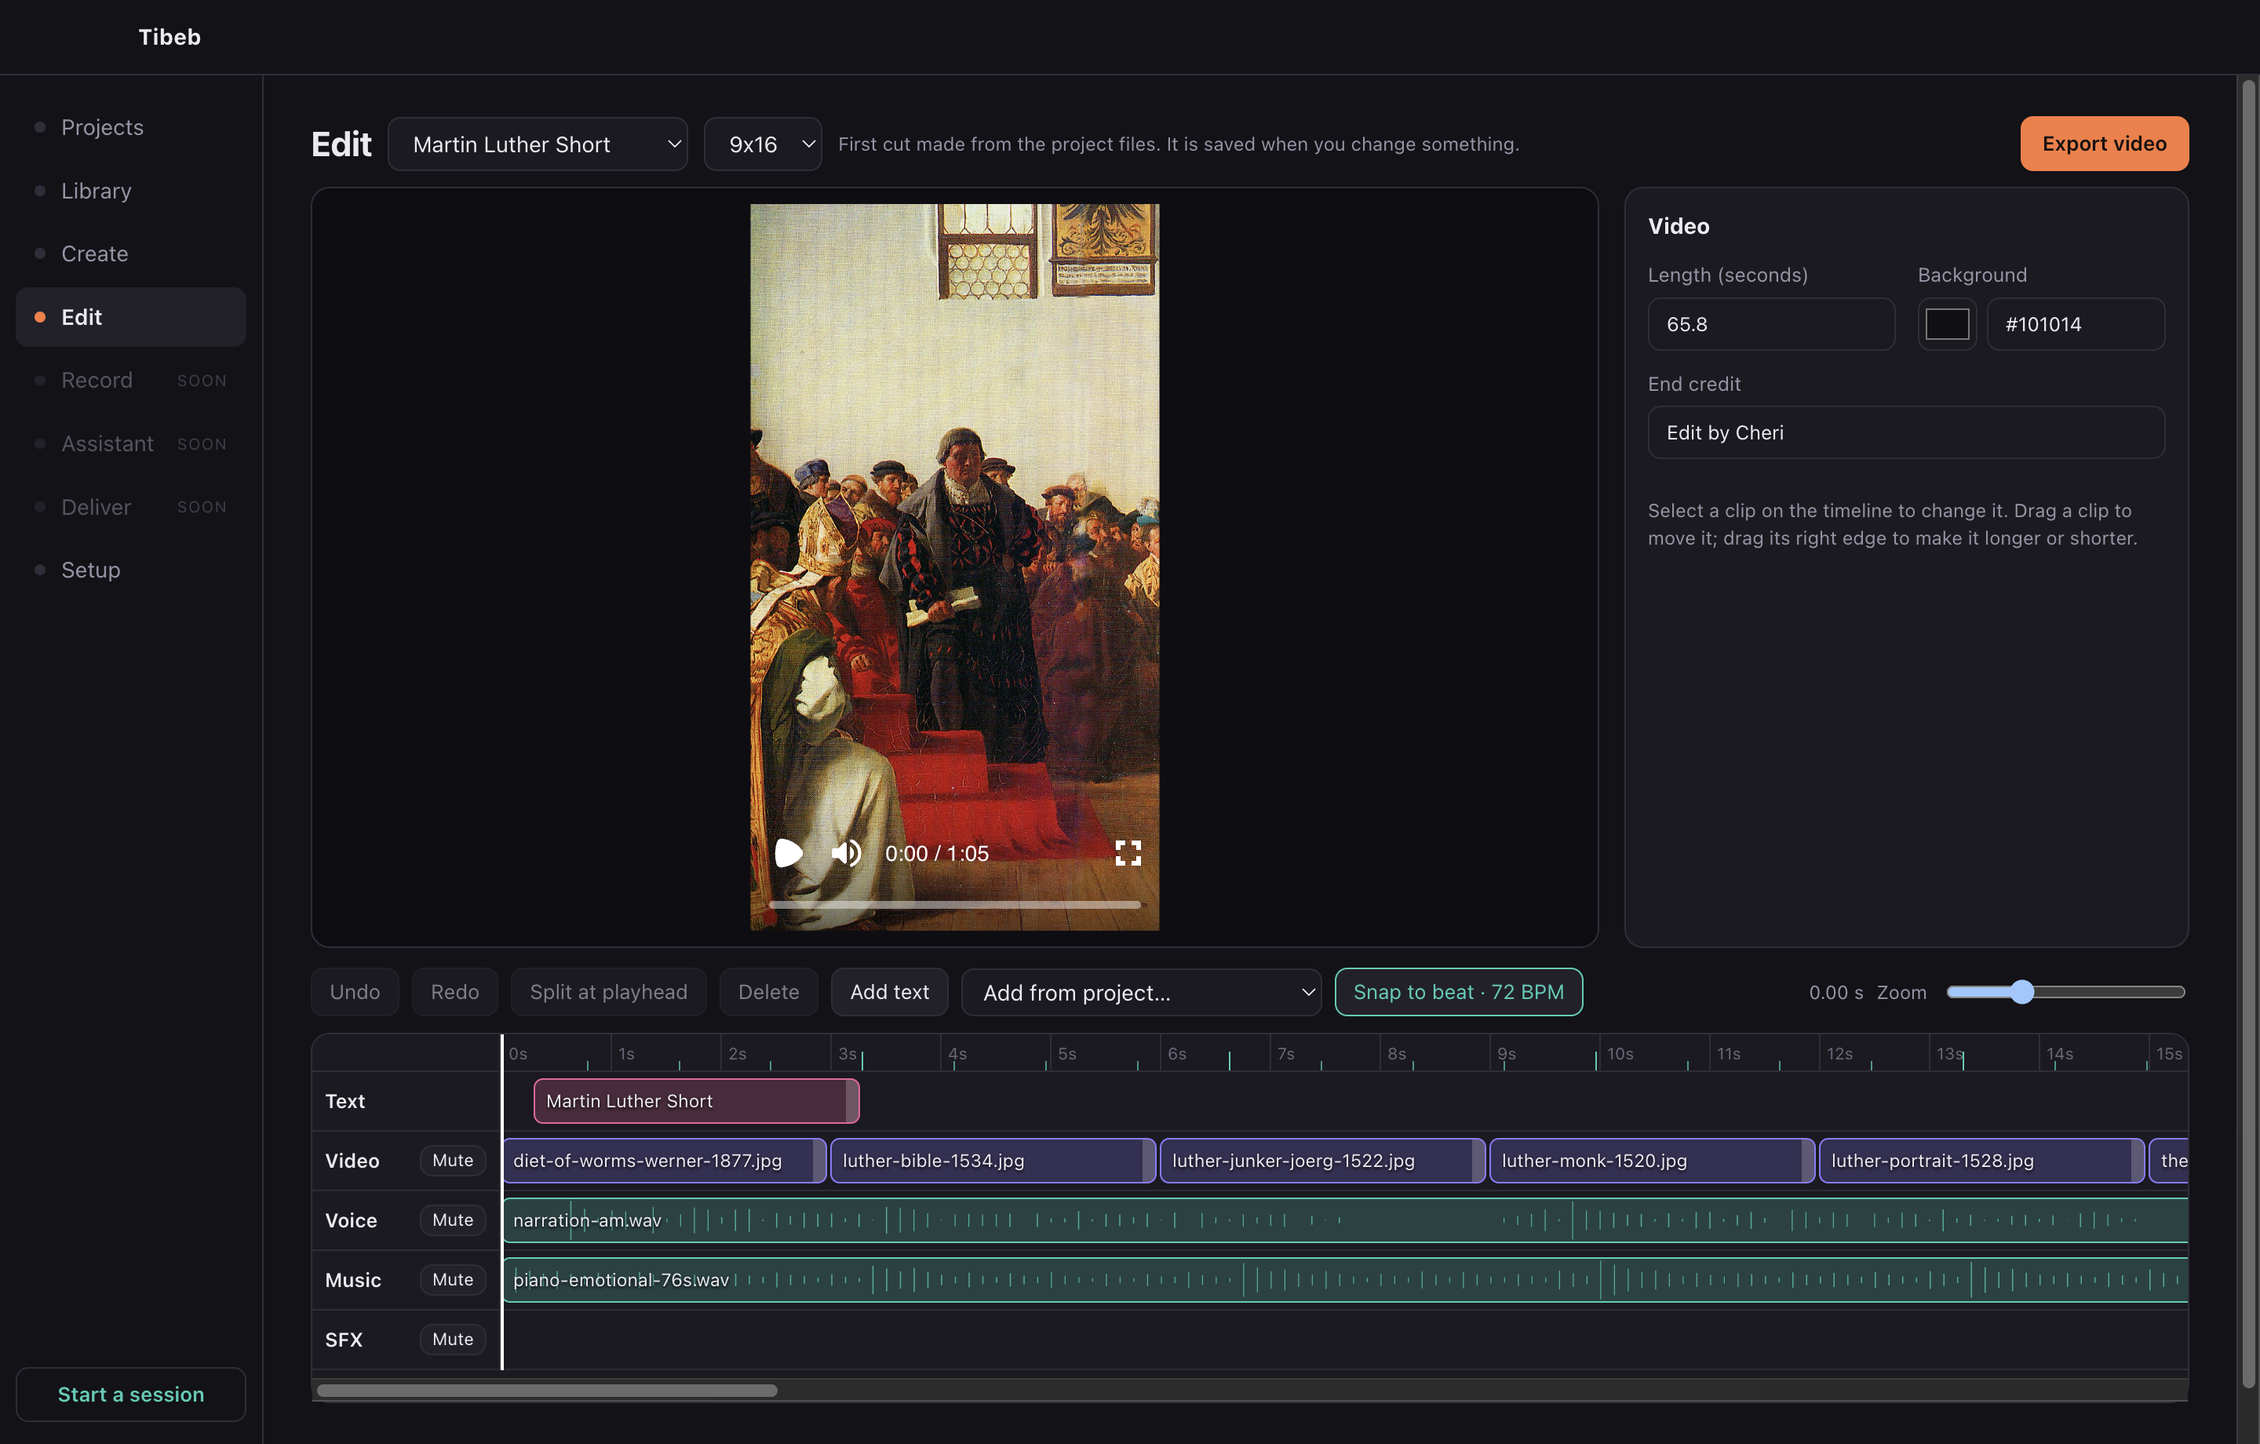
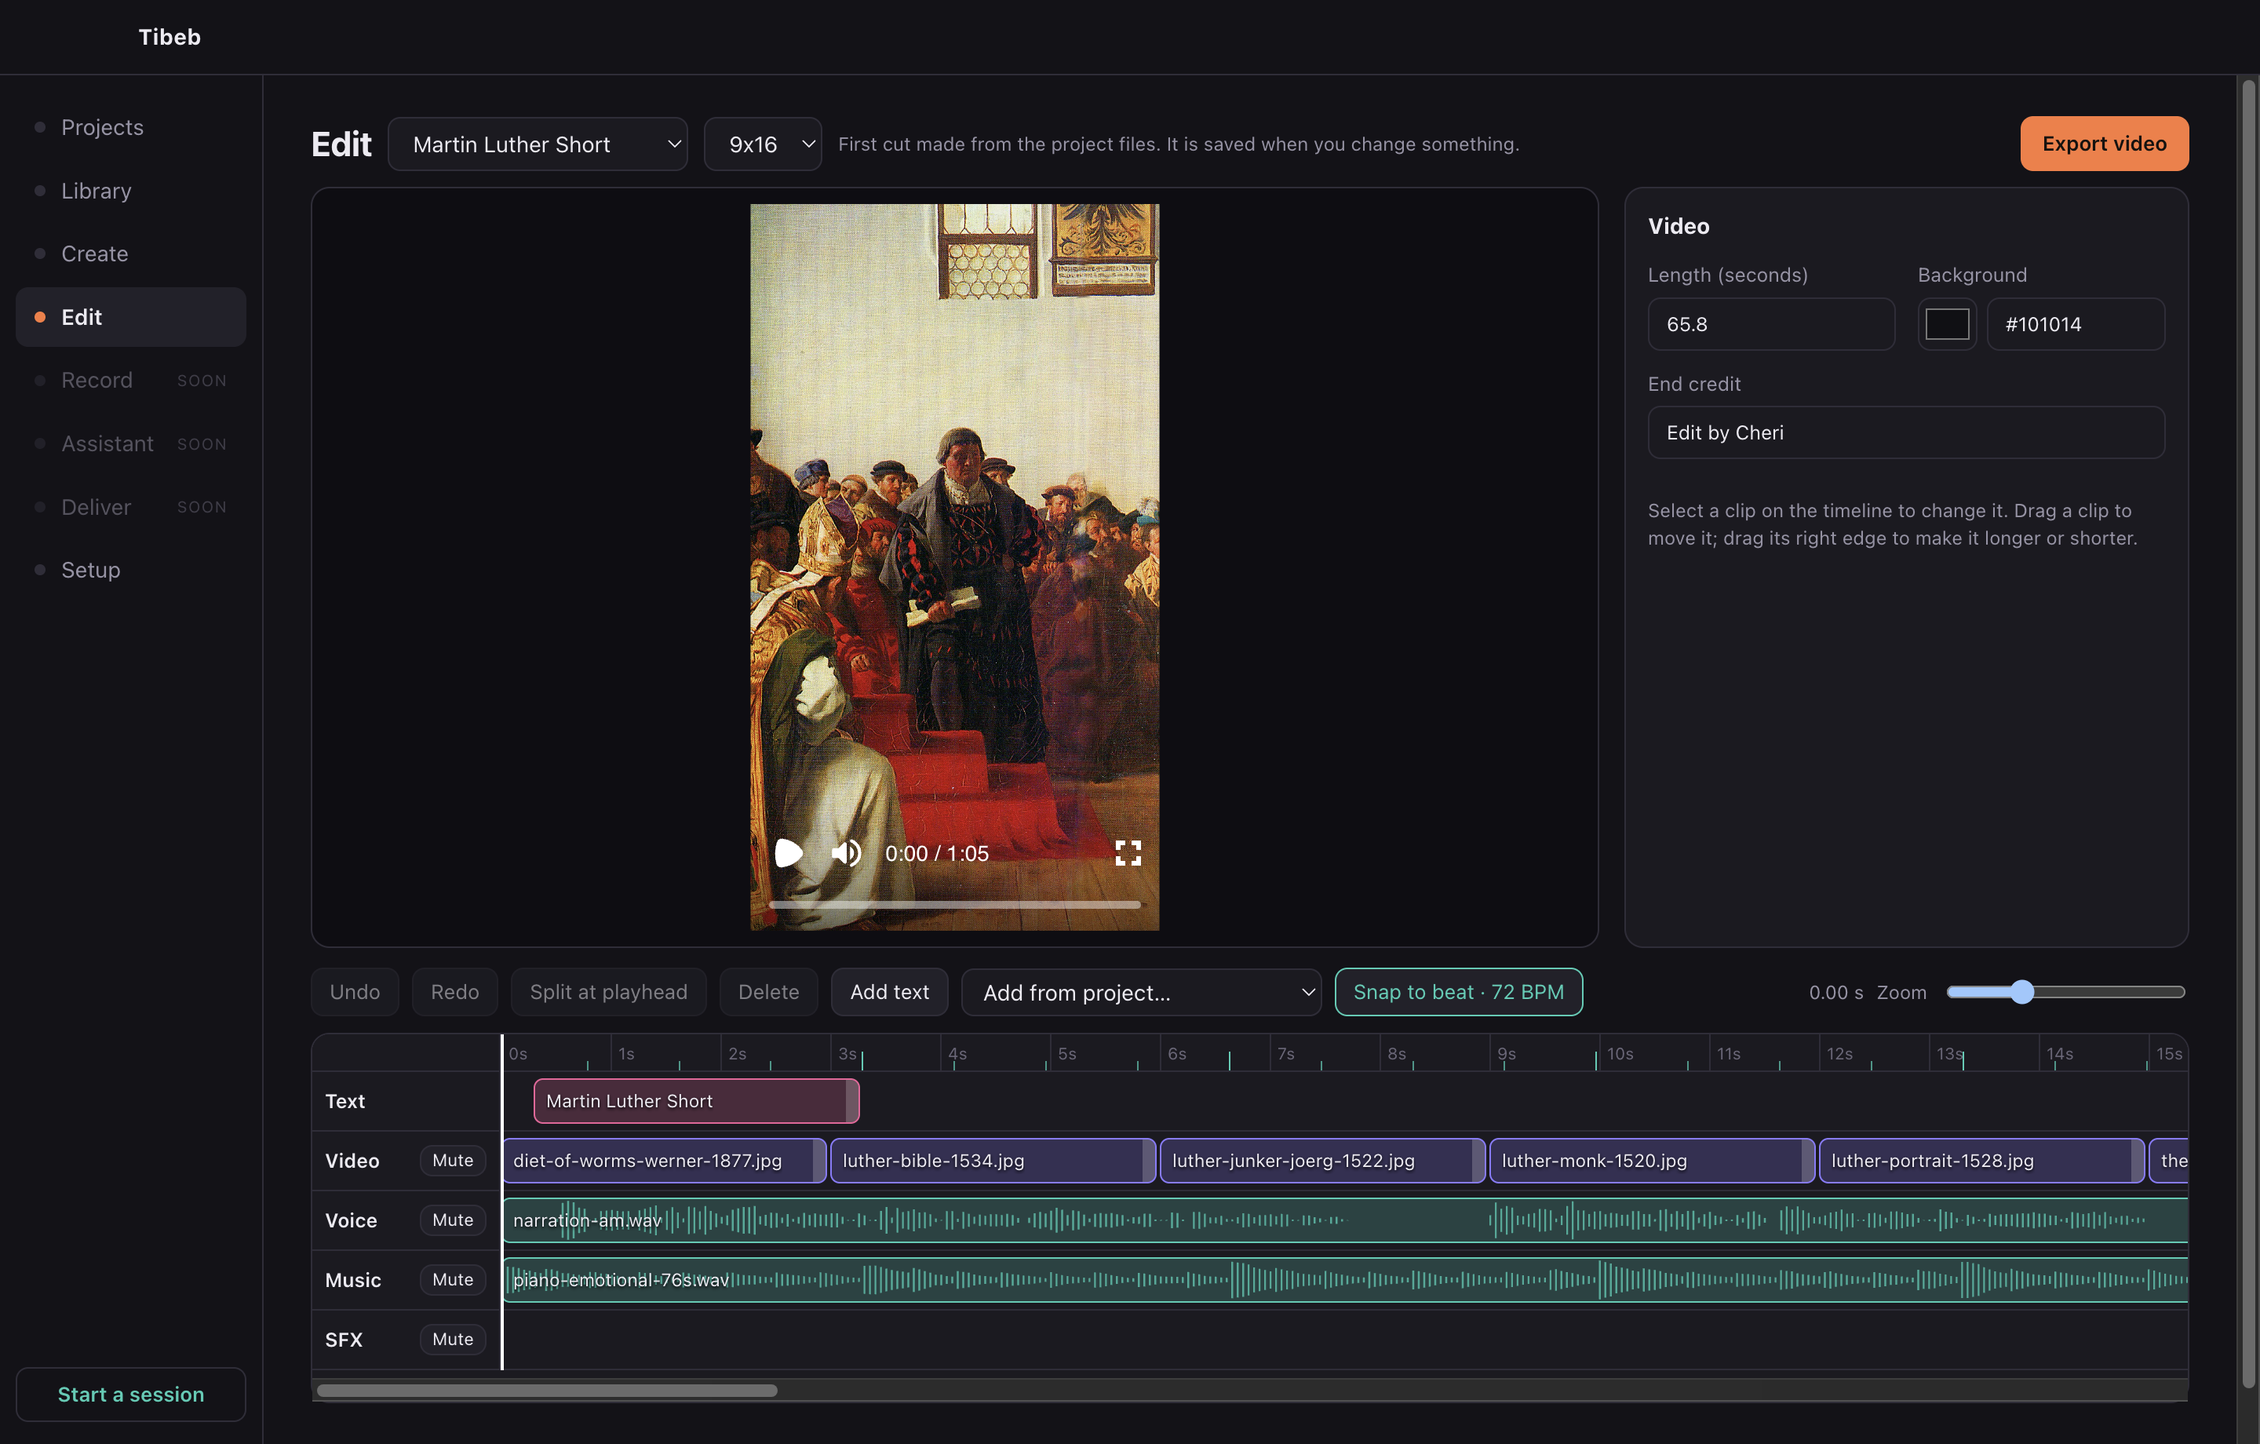
feat: colour in the editor (looks, adjustments, auto balance, copy to track) and denser waveforms

Changed region(s): [[0.5312, 0.8364, 0.9688, 0.8984], [0.25, 0.8364, 0.5, 0.8984], [0.2188, 0.8674, 0.25, 0.8984]]

diff --git a/src/renderer/screens/Edit.tsx b/src/renderer/screens/Edit.tsx
@@ -15,7 +15,7 @@ const clean = (e: unknown) => (e as Error).message.replace(/^Error invoking remo
 /** Inspector forms come from the same schemas the renderer validates with. */
 const formSchema = (kind: string): JsonSchema => {
 	const s = z.toJSONSchema(kind === 'text' ? textClipSchema : kind === 'audio' ? audioClipSchema : mediaClipSchema, {unrepresentable: 'any'}) as JsonSchema;
-	const {id: _id, kind: _kind, ...properties} = s.properties ?? {};
+	const {id: _id, kind: _kind, balance: _balance, ...properties} = s.properties ?? {};
 	return {...s, properties, required: (s.required ?? []).filter((k) => k !== 'id' && k !== 'kind')};
 };
 // Waveforms and beats are measured once per file by the engine and remembered for the session.
@@ -27,7 +27,7 @@ const loadPeaks = (project: string, src: string, beats: boolean) => {
 };
 
 /** The part of a file's waveform that a clip plays (from `in` for `length` seconds), stretched to the clip. */
-const Wave = ({project, clip, color}: {project: string; clip: EditClip; color: string}) => {
+const Wave = ({project, clip, color, px}: {project: string; clip: EditClip; color: string; px: number}) => {
 	const [p, setP] = useState<Peaks | null>(null);
 	const src = String(clip.src ?? '');
 	useEffect(() => {
@@ -38,7 +38,7 @@ const Wave = ({project, clip, color}: {project: string; clip: EditClip; color: s
 	if (!p || !p.peaks.length) return null;
 	const a = Math.floor(Number(clip.in ?? 0) * p.per_second), b = Math.ceil((Number(clip.in ?? 0) + clip.length) * p.per_second);
 	const part = p.peaks.slice(a, Math.max(a + 1, b));
-	const step = Math.max(1, Math.ceil(part.length / 600));
+	const step = Math.max(1, Math.ceil(part.length / Math.max(60, Math.min(4000, px / 2.5))));
 	const pts = Array.from({length: Math.ceil(part.length / step)}, (_, i) => Math.max(...part.slice(i * step, (i + 1) * step)));
 	const n = Math.max(1, Math.round((clip.length * p.per_second) / step));
 	const d = pts.map((v, i) => `M${i} ${(0.5 - v * 0.46).toFixed(3)}V${(0.5 + v * 0.46).toFixed(3)}`).join('');
@@ -213,10 +213,30 @@ const Edit = ({initial}: {initial: string}) => {
 	const startDrag = (e: React.PointerEvent, track: string, c: EditClip, mode: 'move' | 'trim') => {
 		if (!doc) return;
 		e.stopPropagation();
-		(e.currentTarget as HTMLElement).setPointerCapture(e.pointerId);
+		try {
+			(e.currentTarget as HTMLElement).setPointerCapture(e.pointerId);
+		} catch {
+			// synthetic pointers (tests) cannot be captured
+		}
 		setSel({track, clip: c.id});
 		drag.current = {track, clip: c.id, mode, x0: e.clientX, start0: c.start, length0: c.length, before: doc};
 	};
+	const GRADE = ['look', 'lookStrength', 'exposure', 'contrast', 'saturation', 'temperature', 'tint', 'balance'];
+	const [gradeNote, setGradeNote] = useState('');
+	const autoBalance = async () => {
+		if (!sel || !selected || typeof selected.src !== 'string') return;
+		setGradeNote('Measuring…');
+		try {
+			const r = await window.tibeb.balance(project, selected.src, Number(selected.in ?? 0) + Math.min(0.5, selected.length / 2));
+			change((d) => mapClip(d, sel, (c) => ({...c, balance: r.balance})));
+			setGradeNote(r.notes[0] ?? 'Balanced');
+		} catch (e) {
+			setGradeNote(clean(e));
+		}
+	};
+	const resetColour = () => sel && change((d) => mapClip(d, sel, (c) => Object.fromEntries(Object.entries(c).filter(([k]) => !GRADE.includes(k))) as EditClip));
+	const colourToTrack = () => sel && selected && change((d) => ({...d, tracks: d.tracks.map((t) => (t.id !== sel.track ? t : {...t, clips: t.clips.map((c) => (c.kind === 'audio' || c.kind === 'text' ? c
+		: {...(Object.fromEntries(Object.entries(c).filter(([k]) => !GRADE.includes(k))) as EditClip), ...Object.fromEntries(GRADE.filter((k) => k !== 'balance' && selected[k] !== undefined).map((k) => [k, selected[k]]))}))}))}));
 	const seek = (t: number) => player.current?.seekTo(Math.max(0, Math.round(t * FPS)));
 
 	const exportNow = async () => {
@@ -270,8 +290,16 @@ const Edit = ({initial}: {initial: string}) => {
 						<>
 							<div className="row between"><strong>{label(selected)}</strong><span className="dim small">{selected.kind}</span></div>
 							{typeof selected.src === 'string' && /\.(png|jpe?g|webp)$/i.test(selected.src) ? <img className="ithumb" alt="" src={media(`projects/${project}/${selected.src.replace(`projects/${slug}/`, '')}`)} /> : null}
+							{selected.kind === 'video' || selected.kind === 'image' ? (
+								<div className="gradebar">
+									<button className="small" onClick={() => void autoBalance()}>{Array.isArray(selected.balance) ? 'Balance again' : 'Auto balance'}</button>
+									<button className="small" onClick={colourToTrack} title="Copy this clip's look and adjustments to every clip on the track">Colour → whole track</button>
+									<button className="small" onClick={resetColour}>Reset colour</button>
+									{gradeNote ? <span className="dim small">{gradeNote}</span> : null}
+								</div>
+							) : null}
 							<SchemaForm key={`${sel?.track}-${sel?.clip}`} schema={formSchema(selected.kind)} value={selected} label="Clip" files={files.map((f) => `projects/${slug}/${f.file}`)}
-								onChange={(v) => sel && change((d) => mapClip(d, sel, (c) => ({...(v as EditClip), id: c.id, kind: c.kind})))} />
+								onChange={(v) => sel && change((d) => mapClip(d, sel, (c) => ({...(v as EditClip), id: c.id, kind: c.kind, ...(c.balance ? {balance: c.balance} : {})})))} />
 						</>
 					) : (
 						<>
@@ -316,7 +344,7 @@ const Edit = ({initial}: {initial: string}) => {
 									<div key={c.id} className={`clip${sel?.clip === c.id && sel.track === t.id ? ' on' : ''}`} title={label(c)}
 										style={{left: c.start * pps, width: Math.max(8, c.length * pps - 2), background: `${COLORS[t.kind]}3a`, borderColor: COLORS[t.kind]}}
 										onPointerDown={(e) => startDrag(e, t.id, c, 'move')}>
-										{t.kind === 'audio' || c.kind === 'video' ? <Wave project={project} clip={c} color={COLORS[t.kind]} /> : null}
+										{t.kind === 'audio' || c.kind === 'video' ? <Wave project={project} clip={c} color={COLORS[t.kind]} px={c.length * pps} /> : null}
 										<span>{label(c)}</span>
 										<i className="grip" onPointerDown={(e) => startDrag(e, t.id, c, 'trim')} />
 									</div>

diff --git a/src/main/main.ts b/src/main/main.ts
@@ -83,6 +83,14 @@ const registerIpc = () => {
 		need((src as string).startsWith(prefix), 'not a file of this project');
 		return engine(['peaks', projectPath(name as string, (src as string).slice(prefix.length)), '--per-second', '40', ...(beats ? ['--beats'] : [])], 300_000);
 	});
+	ipcMain.handle('media:balance', async (_e, name: unknown, src: unknown, time: unknown) => {
+		need(isProjectName(name) && typeof src === 'string' && typeof time === 'number' && time >= 0 && time < 36000, 'bad request');
+		const prefix = `projects/${projectSlug(name as string)}/`;
+		need((src as string).startsWith(prefix), 'not a file of this project');
+		const file = projectPath(name as string, (src as string).slice(prefix.length));
+		const res = await engine<{cdl: {slope: number[]; notes: string[]}}>(['balance', file, ...(/\.(mp4|mov|m4v|webm|mkv)$/i.test(file) ? ['--time', String(time)] : [])], 120_000);
+		return {balance: res.cdl.slope.map((v) => Math.round(Math.min(5, Math.max(0.2, v)) * 1000) / 1000), notes: res.cdl.notes};
+	});
 	ipcMain.handle('edit:load', (_e, name: unknown) => {
 		need(isProjectName(name), 'not a valid project name');
 		return loadEdit(name as string);
@@ -155,6 +163,13 @@ const takeShots = async (win: BrowserWindow, dir: string) => {
 		await win.webContents.executeJavaScript(`location.hash = ${JSON.stringify(hash)}`);
 		await wait(name === 'setup' ? 5000 : name === 'edit' ? 6000 : 2200);
 		writeFileSync(join(dir, `${name}.png`), (await win.webContents.capturePage()).toPNG());
+		if (name === 'edit') { // select the first picture clip so the inspector with the colour tools is captured too
+			await win.webContents.executeJavaScript(`(() => { const c = document.querySelectorAll('.lane')[2]?.querySelector('.clip'); if (c) { const r = c.getBoundingClientRect();
+				c.dispatchEvent(new PointerEvent('pointerdown', {bubbles: true, clientX: r.left + 10, clientY: r.top + 5, pointerId: 1}));
+				c.dispatchEvent(new PointerEvent('pointerup', {bubbles: true, clientX: r.left + 10, clientY: r.top + 5, pointerId: 1})); } })()`);
+			await wait(900);
+			writeFileSync(join(dir, 'edit-clip.png'), (await win.webContents.capturePage()).toPNG());
+		}
 	}
 	app.quit();
 };
@@ -216,8 +231,12 @@ const editTest = async (win: BrowserWindow, project: string) => {
 			doc.duration = 6;
 			await window.tibeb.saveEdit(${JSON.stringify(project)}, doc);
 			const again = await window.tibeb.loadEdit(${JSON.stringify(project)});
+			const bal = await window.tibeb.balance(${JSON.stringify(project)}, doc.tracks[1].clips[0].src, 0);
+			const pk = await window.tibeb.peaks(${JSON.stringify(project)}, doc.tracks[3].clips[0].src, true);
+			doc.tracks[1].clips[0].look = 'golden-hour'; doc.tracks[1].clips[0].balance = bal.balance;
+			await window.tibeb.saveEdit(${JSON.stringify(project)}, doc);
 			const done = await window.tibeb.exportEdit(${JSON.stringify(project)}, '9x16', 'edit-test');
-			return 'OK created=' + created + ' reloaded=' + !again.created + ' clips=' + doc.tracks.map((t) => t.id + ':' + t.clips.length).join(',') + ' ' + done.file;
+			return 'OK created=' + created + ' reloaded=' + !again.created + ' clips=' + doc.tracks.map((t) => t.id + ':' + t.clips.length).join(',') + ' balance=' + JSON.stringify(bal.balance) + ' peaks=' + pk.peaks.length + ' bpm=' + pk.bpm + ' ' + done.file;
 		} catch (e) { return 'FAILED ' + e.message; }
 	})()`);
 	console.log(result);

diff --git a/src/shared.d.ts b/src/shared.d.ts
@@ -25,6 +25,7 @@ interface Window {
 		narrate(req: {project: string; text: string; name: string; voice: string; provider: 'edge' | 'say'}): Promise<NarrationResult>;
 		commonsSearch(query: string): Promise<CommonsResult[]>;
 		commonsAdd(name: string, title: string): Promise<{file: string; license: string; notes: string[]; project: ProjectDetail}>;
+		balance(project: string, src: string, time: number): Promise<{balance: number[]; notes: string[]}>;
 		peaks(project: string, src: string, beats: boolean): Promise<Peaks>;
 		loadEdit(project: string): Promise<{doc: EditDoc; created: boolean; slug: string}>;
 		saveEdit(project: string, doc: EditDoc): Promise<boolean>;

diff --git a/src/main/preload.ts b/src/main/preload.ts
@@ -14,6 +14,7 @@ contextBridge.exposeInMainWorld('tibeb', {
 	narrate: (req: unknown) => call('voice:narrate', req),
 	commonsSearch: (query: string) => call('commons:search', query),
 	commonsAdd: (name: string, title: string) => call('commons:add', name, title),
+	balance: (project: string, src: string, time: number) => call('media:balance', project, src, time),
 	peaks: (project: string, src: string, beats: boolean) => call('media:peaks', project, src, beats),
 	loadEdit: (project: string) => call('edit:load', project),
 	saveEdit: (project: string, doc: unknown) => call('edit:save', project, doc),

diff --git a/src/renderer/styles.css b/src/renderer/styles.css
@@ -147,3 +147,5 @@ button.pad{align-self:flex-start;white-space:normal;text-align:left}
 .beat{position:absolute;bottom:0;width:1px;height:6px;background:var(--teal);opacity:.7;pointer-events:none}
 .beat.down{height:12px;opacity:1}
 .tbar button[aria-pressed=true]{color:var(--teal);border-color:var(--teal)}
+
+.gradebar{display:flex;flex-wrap:wrap;gap:6px;align-items:center}

diff --git a/README.md b/README.md
@@ -20,11 +20,11 @@ depending on one.
 | **Find real pictures** | Inside a project: search Wikimedia Commons, see each picture's licence, add it with licence, author and source recorded in the project's `CREDITS.md`. |
 | **Library** | 350 free-to-use assets generated on your machine: sound effects, music, graphics, animated overlays, transitions, backgrounds, textures, looks and open-licensed typefaces. Search, listen, preview, add to a project's kit. |
 | **Create** | 18 video templates (documentary shorts, talking-head scenes, camera-follow maps, routes and graphs, promos, text overlays). Fill in a form (media fields suggest the project's own files, which are linked into the renderer automatically), press Render, the video lands in the project. |
-| **Edit** (first version) | A timeline per project (`edit.json`): video, image, text and audio clips on tracks, with a live preview that uses the same renderer as the export. Drag clips to move them, drag the right edge to trim, split at the playhead, add text or project files, change any property in the inspector, undo/redo, autosave, export. |
+| **Edit** (first version) | A timeline per project (`edit.json`): video, image, text and audio clips on tracks, with a live preview that uses the same renderer as the export. Drag clips to move them, drag the right edge to trim, split at the playhead, add text or project files, change any property in the inspector, undo/redo, autosave, export. Audio clips show their waveform, the music's beats are marked and edits snap to them. Picture clips take a colour look with a strength, exposure, contrast, saturation, temperature and tint, plus one-click auto balance. |
 | **Setup** | Checks everything the studio needs and says how to fix what is missing. Choose your editor: DaVinci Resolve, CapCut or none. |
 
 ![Find real pictures](docs/app/project-tools.png)
-![Edit](docs/app/edit.png)
+![Edit](docs/app/edit-clip.png)
 ![Create](docs/app/create.png)
 ![Library](docs/app/library.png)
 
@@ -70,8 +70,8 @@ assistant session in the workspace.
 | M0 Foundations | launcher, library, editor choice, project kits | done |
 | M1 Shell | Projects, Library, Setup | done |
 | M2 Create | template forms, render into a project | first version |
-| M3 Editor | timeline: cut, trim, layers, looks, keyframes | first version (no looks or keyframes yet) |
-| M4 Sound | voice, music and SFX tracks, beats, ducking | planned |
+| M3 Editor | timeline: cut, trim, layers, looks, keyframes | first version (no keyframes yet) |
+| M4 Sound | voice, music and SFX tracks, beats, ducking | waveforms, beats and snapping done; ducking planned |
 | M5 Assistant | Claude panel working on the same timeline file | planned |
 | M6 Hand-off | layered export, CapCut and Resolve, recording | planned |
 | M7 Share | first-run setup, signed build, docs | planned |
